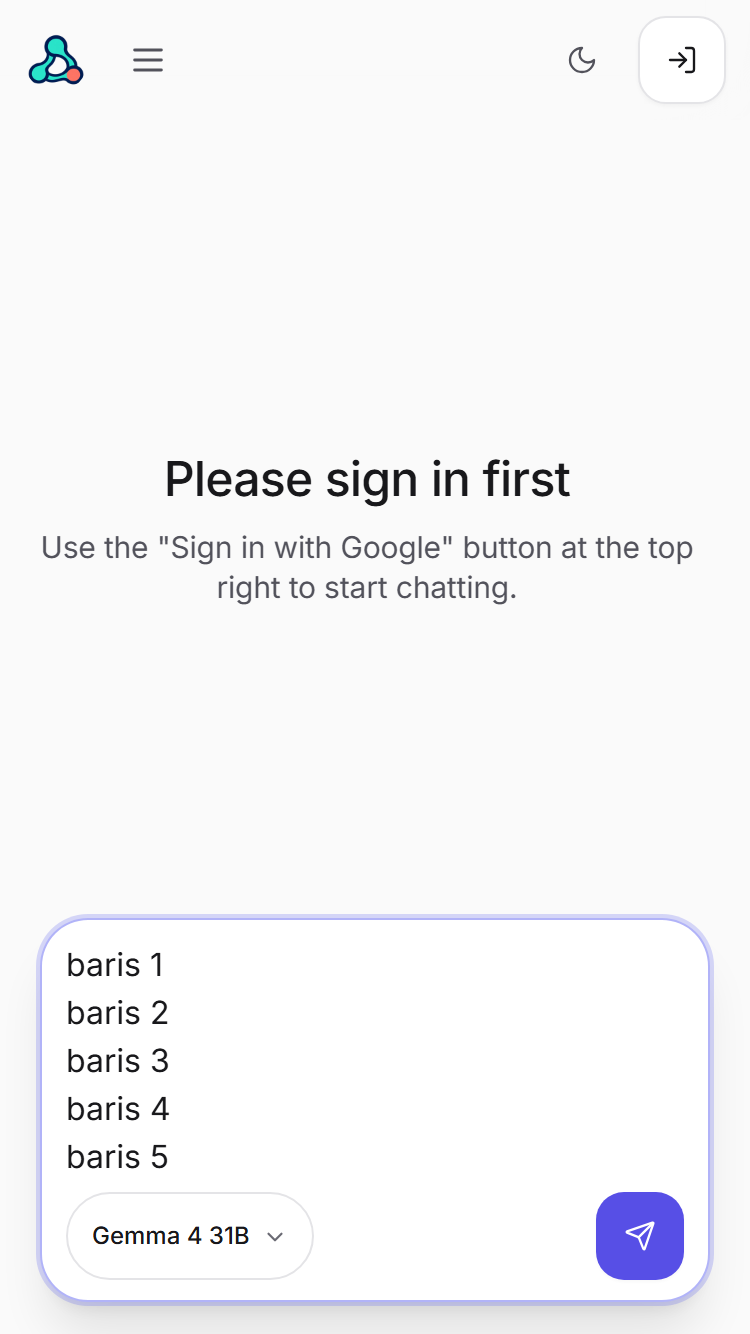
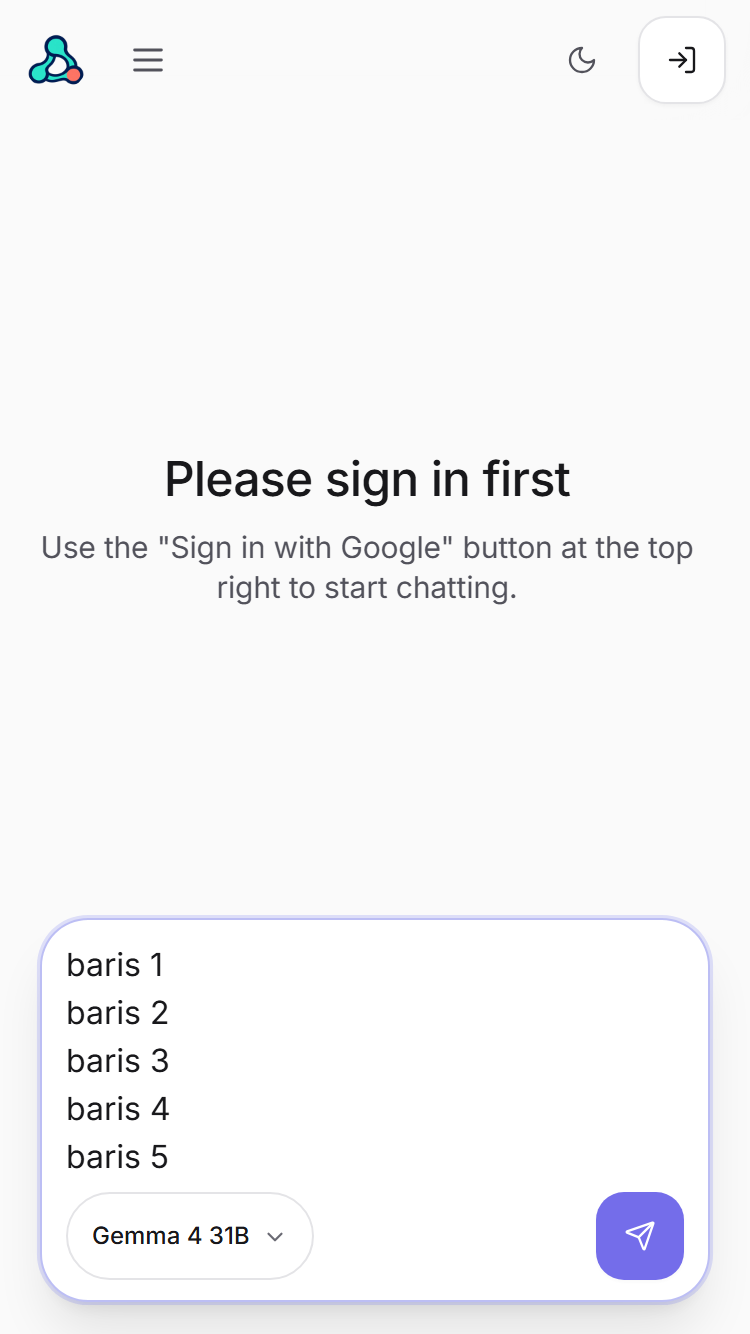
chore(evidence): segarkan bukti screenshot chat-ui + catatan monitoring
Perubahan ini SUDAH ADA di working tree sebelum pekerjaan sandbox/CSP dimulai
(hasil run ulang harness screenshot chat-ui pada sesi sebelumnya), jadi
dipisah ke commit sendiri supaya riwayat tetap bisa diatribusikan.

Isinya hanya artefak hasil ukur ulang, bukan perubahan kode:
- `docs/marketing/screenshots/chat-ui/evidence/*.json` — nilai sub-piksel
  `composerBorder`/`composerShadow` bergeser karena animasi composer diukur
  pada frame yang sedikit berbeda (mis. `rgba(190,191,234,0.773)` →
  `rgba(166,168,236,0.68)`).
- `docs/marketing/screenshots/chat-ui/resize-*.png` — gambar hasil render ulang
  (selisih < 30 byte per berkas).
- `docs/overnight-monitoring-2026-10-07.md` — 8 baris catatan tambahan.

Changed region(s): [[0.7973, 0.8913, 0.92, 0.9835]]

diff --git a/docs/overnight-monitoring-2026-10-07.md b/docs/overnight-monitoring-2026-10-07.md
@@ -18,6 +18,7 @@
 | 19:42 | 200 · 4.49s · `persisted` | 401 · 1.62s | **200 · ≥30.0s · 8646B** | tidak dapat diakses | **Gateway ≥30s (menembus batas), payload terpotong** |
 | 21:44 | 200 · 0.64s · `persisted` | 401 · 1.86s | **200 · 6.89s · 74354B** | tidak dapat diakses | tidak ada 5xx; **gateway pulih** (≥30s → 6.89s) |
 | 05:58 | 200 · 0.42s · `persisted` | 401 · 0.33s | **200 · 1.66s · 74354B** | tidak dapat diakses | tidak ada 5xx; gateway cepat & payload utuh |
+| 07:59 | 200 · 0.43s · `persisted` | 401 · 0.33s | **200 · 1.90s · 74354B** | tidak dapat diakses | tidak ada 5xx; semua endpoint sesuai kontrak, gateway < 10s |
 | 20:00 | _otomasi_ | | | | |
 | 22:00 | _otomasi_ | | | | |
 | 00:00 | _otomasi_ | | | | |
@@ -53,6 +54,13 @@
 > (normal). Gateway LLM **200 · 1.66s · 74.354B** — paling cepat sejauh monitoring,
 > payload utuh (di bawah ambang 10s). Tidak ada 5xx / status tak diduga. A-5 (VPS)
 > **masih** terjadi (SSH `Permission denied (publickey,password)`).
+
+> **Pembaruan 07:59 (otomasi `375e771c`).** Tidak ada anomali berat pada run ini.
+> `/health` **200 · 0.43s · `persisted`** (supabase); `/workflows` **401** (kontrak
+> terpenuhi); `/mcp/gateway/health` **401** (butuh JWT — normal). Gateway LLM
+> **200 · 1.90s · 74.354B** — payload utuh dan jauh di bawah ambang 10s. Tidak ada
+> 5xx / status tak diduga. A-5 (VPS) **masih** terjadi (SSH
+> `Permission denied (publickey,password)`).
 
 A-1/A-2 konsisten dengan risiko residual **R-1** (`docs/security/launch-ready-v2-2026-10-07.md`).
 Produk **tidak bergantung** pada gateway (rantai cadangan
